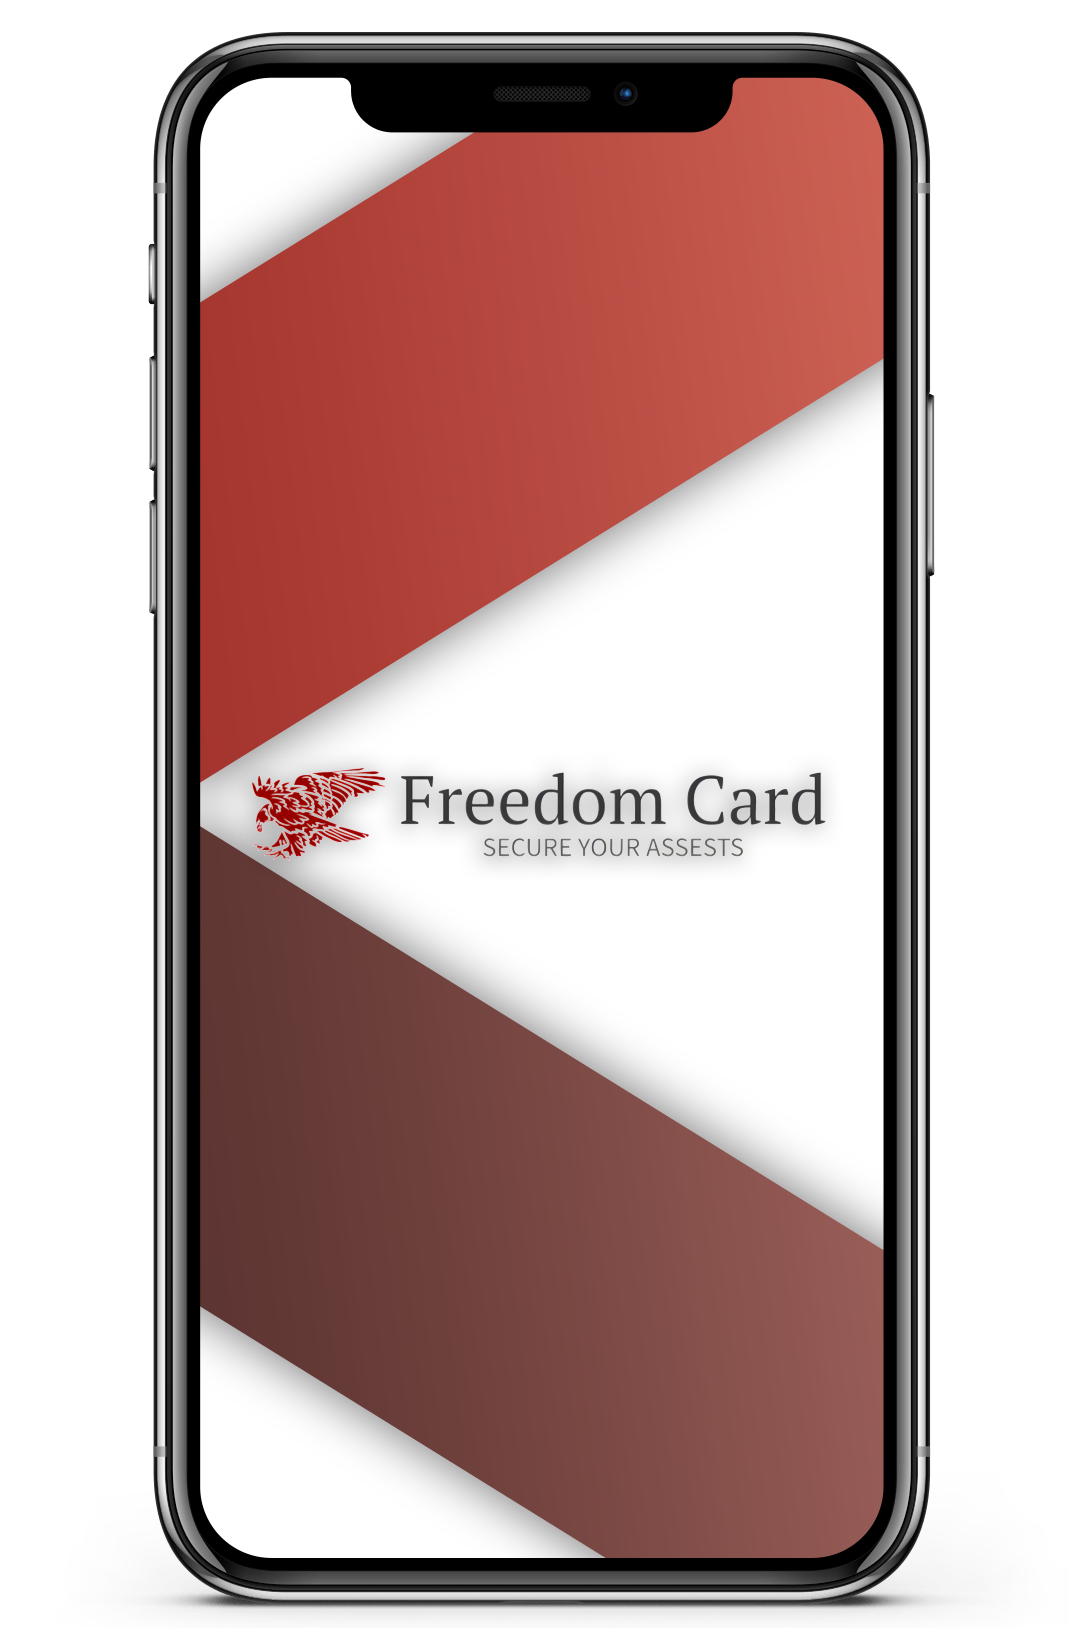
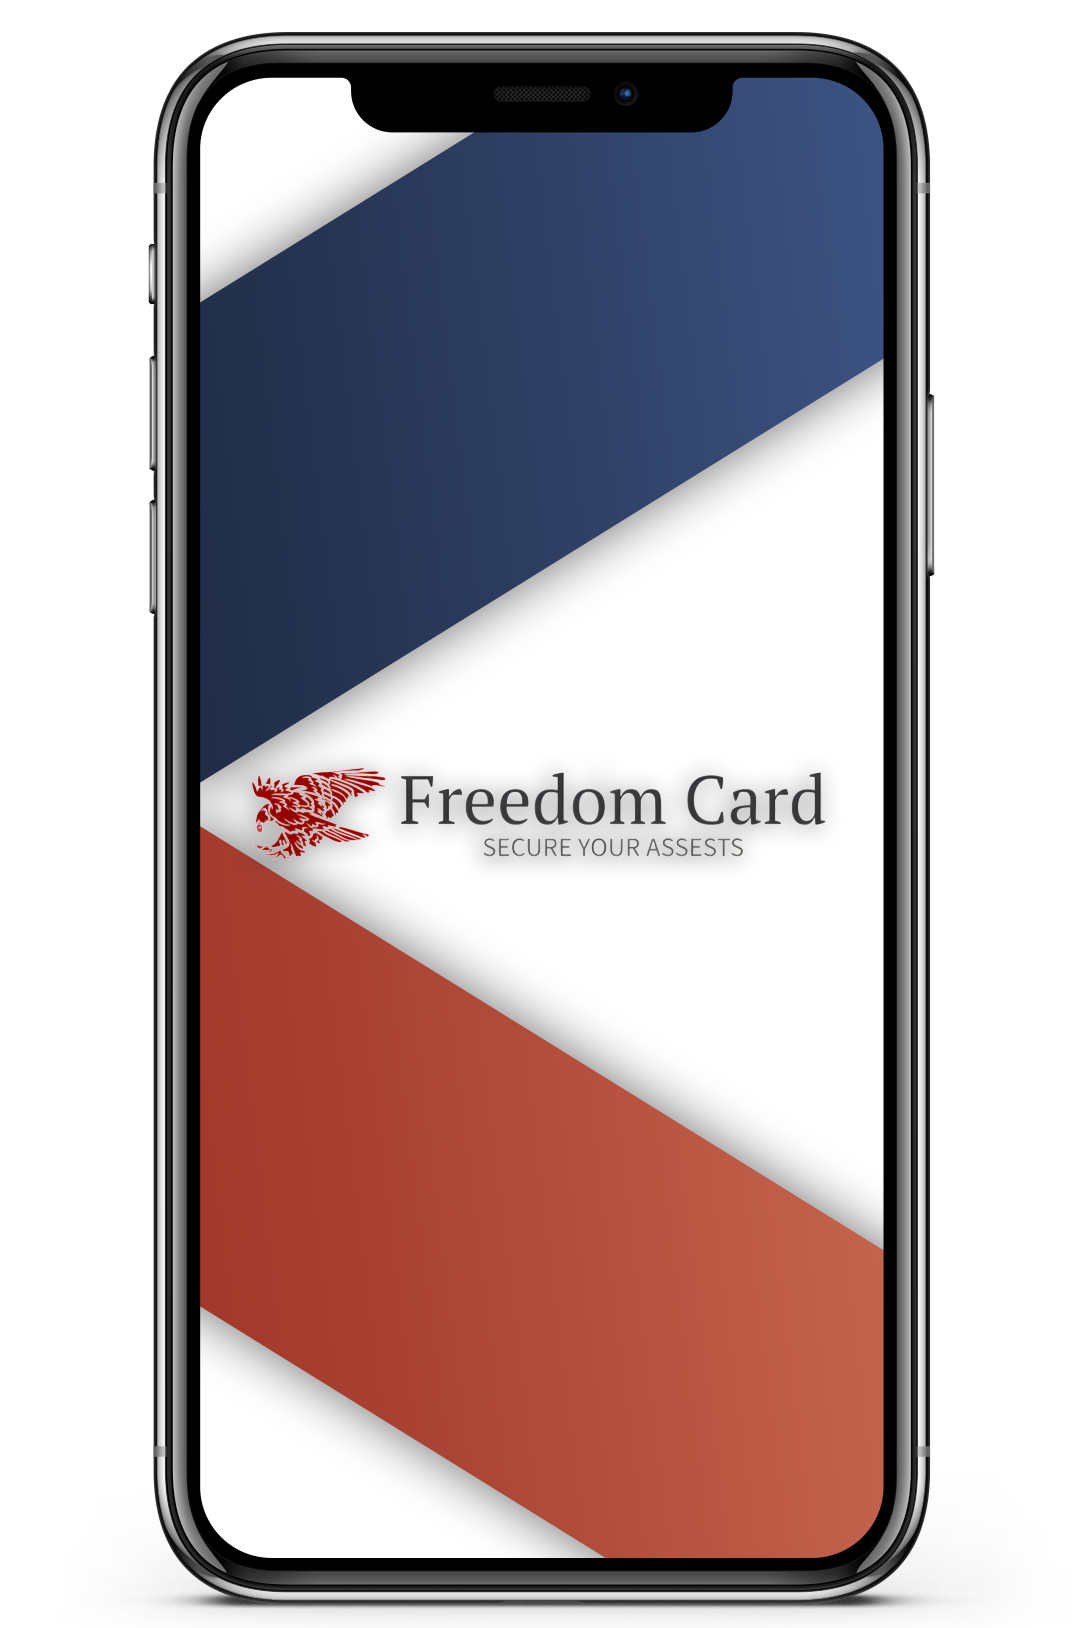
Created site

diff --git a/index.html b/index.html
@@ -14,7 +14,7 @@
 <body>
   
   <!-- Navbar -->
-  <nav class="navbar navbar-expand-sm bg-light sticky-top"  >
+  <nav class="navbar navbar-expand-sm bg-white sticky-top" data-aos="fade-down" style="overflow-x: hidden;">
     <div id="nav-freedom-container" class="container mb">
       <a class="navbar-brand" href="#">
         <img id="freedom-eagle-logo" src="./styles/imgs/freedom-eagle.png" alt="Freedom Eagle">
@@ -23,13 +23,13 @@
         <span class="navbar-toggler-icon"></span>
       </button>
       <!-- Nav Items -->
-      <div class="collapse navbar-collapse justify-content-end" id="navbarUnderline" role="tablist">
+      <div class="collapse navbar-collapse justify-content-end" id="navbarUnderline">
         <ul class="nav nav-underline">
           <li class="nav-item">
-            <a class="nav-link active" id="nav-freedom-home" aria-selected="true">Home</a>
+            <a class="nav-link" id="nav-freedom-home" aria-selected="true" href="#">Home</a>
           </li>
           <li class="nav-item">
-            <a class="nav-link" id="nav-freedom-login" aria-selected="false">Login</a>
+            <a class="nav-link" id="nav-freedom-login" aria-selected="false" href="#section-freedom-signup">Sign Up</a>
           </li>
         </ul>
       </div>
@@ -37,26 +37,101 @@
   </nav>
   <!-- Content -->
   <!-- Home Section -->
-  <div id="section-freedom-home" class="container">
+  <div id="section-freedom-home" class="container mt-2 mb-lg-5 p-5">
     <div class="row p-5">
       <div class="col-xl-8">
-        <div id="home-desc-container" class="container-fluid">
+        <div id="home-desc-container" class="container-fluid"> 
             <!-- Description and Links -->
-            <h3 id="home-slogan">
+            <h3 class="freedom-title" data-aos="fade-right">
               Take control of your transactions<br>Achieve financial <span style="color: var(--normal-red);">Freedom</span>
             </h3>
-            <img  id="freedom-card" class="img-fluid" src="./styles/imgs/lIB1ukt8-cardholder.gif" alt="Freedom Card">
-            <p style="font-size:15px ;">A conceptual demonstration of the anonymous nature of Freedom Card</p>
-            <p class="mt-5">
-              Receive payments, access your funds through e-wallets, and purchase cryptocurrency. All from your personal device and in a decentralized manner. 
-            </p>
-            <button id="home-button">
-              Returning User?
-            </button>
+            <img  id="freedom-card" class="img-fluid" src="./styles/imgs/freedom-card.gif" alt="Freedom Card" data-aos="fade-up">
+            <div id="home-information-tab" data-aos="fade-up">
+              <p>Receive payments, access your funds through e-wallets, and purchase cryptocurrency. All decentralized and on your personal device.</p>
+              <button>Returning User?</button>
+            </div>
         </div>
       </div>
       <div class="col-xl-4">
-        <img id="home-phone" class="img-fluid" src="./styles/imgs/freedom-phone.png" alt="Eagle Mobile App">
+        <img id="home-phone" class="img-fluid" src="./styles/imgs/freedom-phone.png" alt="Eagle Mobile App" data-aos="fade-left">
+      </div>
+    </div>
+  </div>
+  <!-- Sign Up Section -->
+  <div id="section-freedom-signup" class="container-fluid p-5">
+    <div class="container">
+      <div class="row">
+        <div class="col-xl-4">
+          <img  class="img-fluid" src="./styles/imgs/freedom-sam.png" alt="Uncle Sammy" data-aos="zoom-in">
+        </div>
+        <div id="signup-container" class="col-xl-8" data-aos="fade-left">
+          <h1 class="freedom-title">Register for a <span style="color: var(--navy);">Freedom Account</span></h1>
+          <!-- Sign Up Form -->
+          <form class="needs-validation" novalidate>
+            <!-- Name -->
+            <div class="form-floating mb-3">
+              <input type="text" class="form-control" id="freedomName" required>            
+              <label for="freedomName">Full Legal Name</label>
+              <div class="invalid-feedback">
+                Please enter your full legal name
+              </div>
+            </div>
+            <!-- SSN -->
+            <div class="form-floating mb-3">
+              <input type="password" class="form-control" id="freedomSSN" pattern="[0-9]{9}" aria-describedby="ssnHelp" required>
+              <label for="freedomName">SSN</label>
+              <div id="ssnHelp" class="form-text">Only visible by you (xxxxxxxxx)</div>
+              <div class="invalid-feedback">
+                Please enter a valid SSN
+              </div>
+            </div>
+            <!-- Address -->
+            <div class="form-floating mb-3">
+              <input type="text" class="form-control" id="freedomAddress" required>
+              <label for="freedomName">Address</label>
+              <div class="invalid-feedback">
+                Please enter a valid street address
+              </div>
+            </div>
+            <!-- Email -->
+            <div class="form-floating mb-3">
+              <input type="email" class="form-control" id="freedomEmail" aria-describedby="emailHelp" required>
+              <label for="freedomEmail">Email address</label>
+              <div id="emailHelp" class="form-text">Used to recieve updates and verification</div>
+              <div class="invalid-feedback">
+                Please enter a valid email address
+              </div>
+            </div>
+            <!-- Mobile -->
+            <div class="form-floating mb-3">
+              <input type="tel" class="form-control" id="freedomMobile" pattern="[0-9]{3}-[0-9]{3}-[0-9]{4}" aria-describedby="mobileHelp" required>
+              <label for="freedomName">Mobile</label>
+              <div id="mobileHelp" class="form-text">Used to recieve updates and verification (xxx-xxx-xxxx)</div>
+              <div class="invalid-feedback">
+                Please enter a valid phone number
+              </div>
+            </div>
+            <!-- Password -->
+            <div class="form-floating mb-3">
+              <input type="password" class="form-control" id="freedomPassword" required>
+              <label for="freedomPassword">Password</label>
+              <div class="invalid-feedback">
+                Please enter password
+              </div>
+            </div>
+            <!-- Password Verify -->
+            <div class="form-floating mb-3">
+              <input type="password" class="form-control" id="freedomPasswordVerify" required>
+              <label for="freedomPassword">Verify Password</label>
+              <div class="invalid-feedback">
+                Please confirm password
+              </div>
+            </div>
+            <!-- Submission -->
+            <button type="submit" id="signup-button"><span>Register</span></button>
+            <p id="signup-confirmation" class="mt-3"></p>
+          </form>
+        </div>
       </div>
     </div>
   </div>

diff --git a/styles/style.css b/styles/style.css
@@ -5,94 +5,99 @@
 
 
 :root {
-    --background-red: #332C2B;
+    --black: #32353B;
     --bright-red: #ED3726;
-    --normal-red: #BA4D43;
+    --normal-red: #BA5743;
     --dark-red: #87514C;
-    --darkest-red: #544240
-
+    --navy: #304268;
 }
+
 
 /* Media Styling */
 @media only screen and (max-width: 580px) {
-    #freedom-eagle-logo {
-        max-width: 250px;
-    }
+    #freedom-eagle-logo {max-width: 250px;}
     
     #section-freedom-home {
         margin-top:0px !important;
         text-align: center;
+        padding: 0 !important;
     }
 
-    #home-phone {
-        margin-top: 20px;
-    }  
+    #home-phone {margin-top: 20px;}  
 
-    #freedom-card {
-        display: none;
-    }
+    #freedom-card {display: none;}
+
+    #signup-container {margin-top: 20px;}
 }
 
 
 /* Body Styling */
 body {
-    background-color: var(--background-red) ;
+    background-color: white ;
     font-family: 'Poly', serif;
+    color: var(--black);
+    .freedom-title {
+        font-weight: 900;
+        font-size: 40px;
+        margin-bottom: 30px;
+    
+    };
 }
+
 
 /* Navbar Styling */  
-#freedom-eagle-logo {
-    max-width: 300px;
-    max-height: auto;
-}
-
-#navbarUnderline a {
-    text-decoration: none;
-    color: var(--normal-red);
-}
-
 #nav-freedom-container {
     max-height: 155px;
+    #navbarUnderline a {
+        text-decoration: none;
+        color: var(--normal-red);
+    };
+    #freedom-eagle-logo {
+        max-width: 300px;
+        max-height: auto;
+    }
 }
     
+
 /* Home Section */
 #section-freedom-home {
     margin-top: 50px;
+    color: var(--black);
+}
+
+#home-information-tab {
+    background: var(--navy);
+    padding: 20px;
+    border-radius: 20px;
     color: white;
+    p {font-weight: 700;};
+    button {
+        border: 1px white solid; 
+        background-color: white; 
+        padding: 10px; 
+        border-radius: 15px; 
+        color: var(--navy); 
+        font-family: inherit;
+    };
+    button:hover {border-color: lightgrey; background-color: lightgrey;}
 }
 
-
-#home-desc-container p {
-    font-size: 120%;
-    color: lightgrey;
+#section-freedom-signup {
+    background-color: var(--dark-red);
+    #signup-container {
+        color: var(--black);
+        background-color: white;
+        border: 1px white solid;
+        border-radius: 10px;
+    };
+    #signup-button {
+        border: 1px var(--navy) solid; 
+        background-color: var(--navy); 
+        padding: 10px 20px; 
+        border-radius: 15px; 
+        color: white; 
+        font-family: inherit;
+    };
+    input {font-family: inherit;}
+    
 }
-
-#home-slogan {
-    font-weight: 900;
-    font-size: 40px;
-    margin-bottom: 30px;
-
-}
-
-#freedom-card {
-    border: 5px solid var(--dark-red);
-}
-
-#home-button {
-    border: 0px;
-    padding: 15px 50px;
-    border-radius: 30px;
-    margin-top: 10px;
-    font-family: inherit;
-    color: white;
-    background-color: var(--bright-red);
-}
-
-#home-button:hover {
-    background: white;
-    color: var(--bright-red);
-    transition: .5s;
-}
-
-
-

diff --git a/scripts/script.js b/scripts/script.js
@@ -1,0 +1,25 @@
+$(document).ready(function(){
+    // Making sure the DOC is fully loaded
+    console.log("Ready to rumble.");
+
+    (() => {
+        'use strict'
+      
+        // Fetch all the forms we want to apply custom Bootstrap validation styles to
+        const forms = document.querySelectorAll('.needs-validation')
+      
+        // Loop over them and prevent submission
+        Array.from(forms).forEach(form => {
+          form.addEventListener('submit', event => {
+            if (!form.checkValidity()) {
+              event.preventDefault()
+              event.stopPropagation()
+            }
+      
+            form.classList.add('was-validated')
+          }, false)
+        })
+      })();
+    
+
+});
